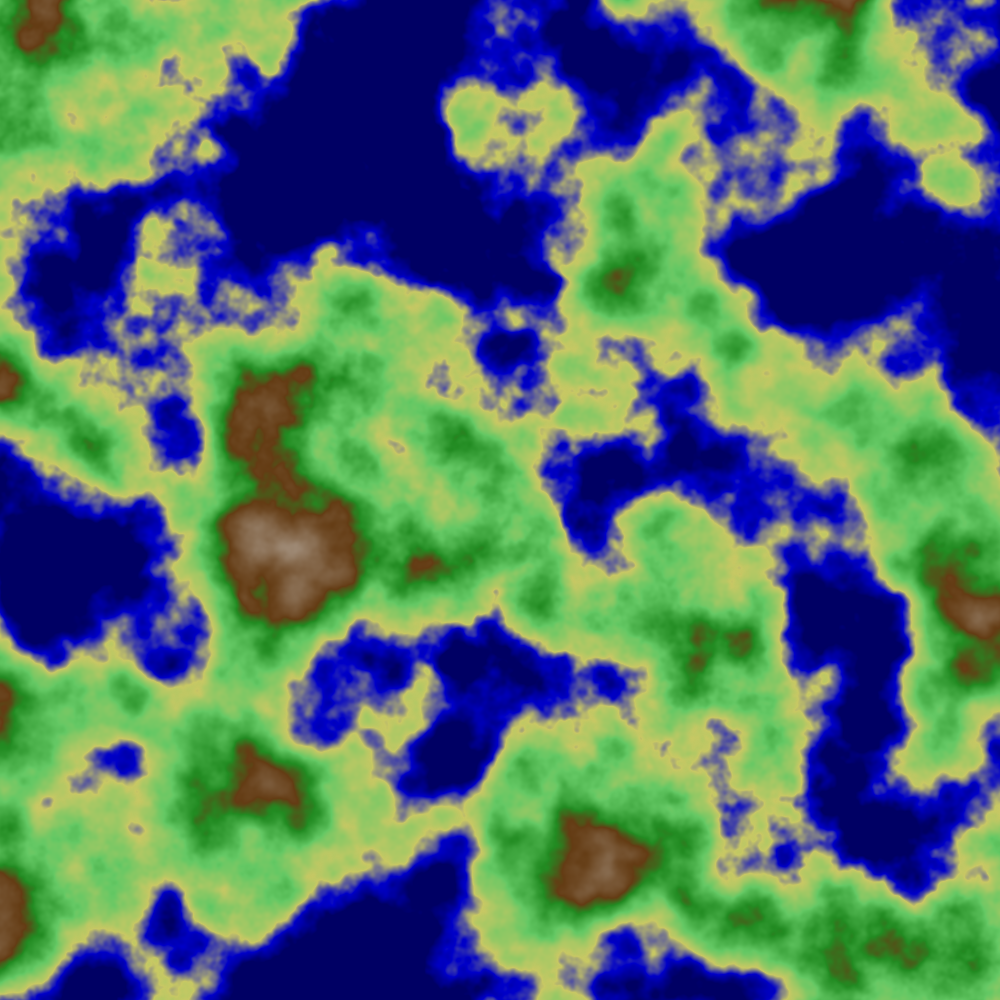
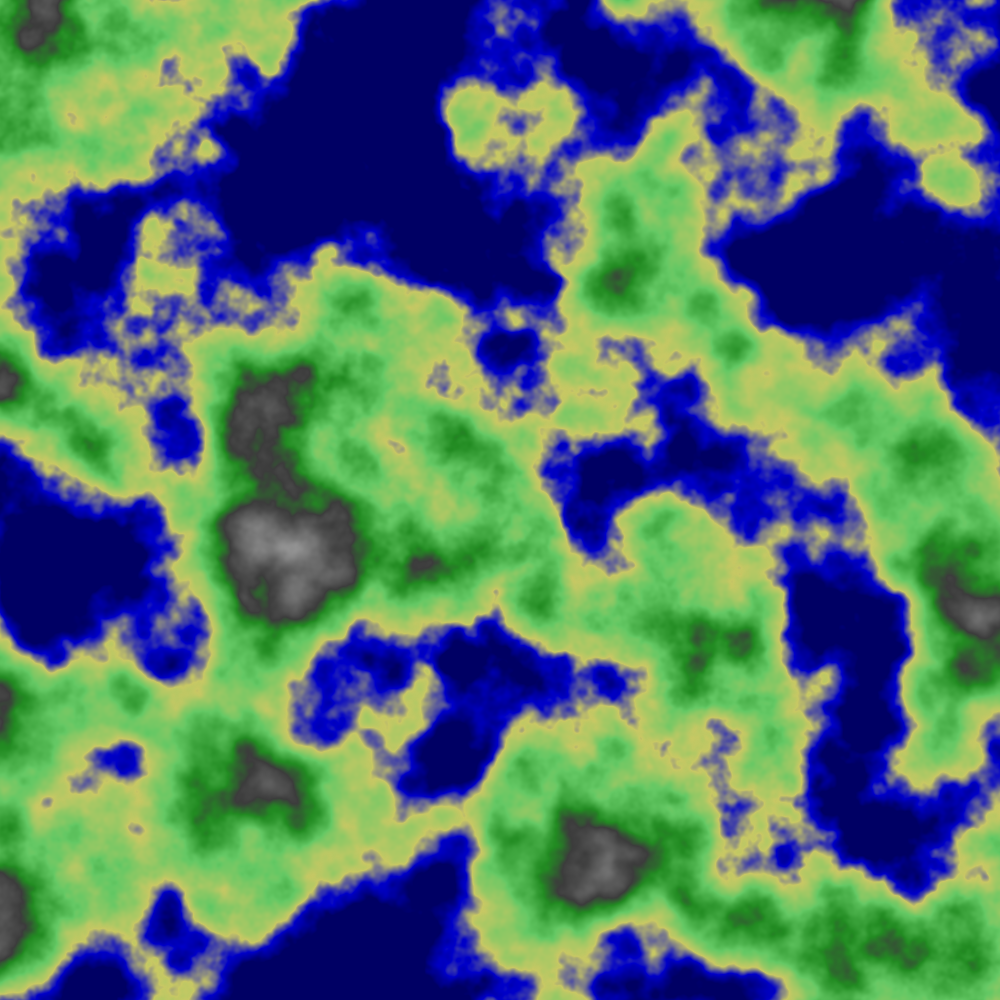
Так лучше

diff --git a/generator.py b/generator.py
@@ -77,12 +77,12 @@ def height_to_color(height_map):
             elif height < mountain_height:
                 factor = (height - forest_height) / (mountain_height - forest_height)
                 color_map[y][x] = interpolate_color(
-                    [34, 139, 34], [100, 60, 20], factor
+                    [34, 139, 34], [60, 60, 60], factor
                 )  # Плавный переход к горам
             else:
                 factor = (height - mountain_height) / (1.0 - mountain_height)
                 color_map[y][x] = interpolate_color(
-                    [100, 60, 20], [220, 220, 220], factor
+                    [60, 60, 60], [240, 240, 240], factor
                 )  # Плавный переход к заснеженным горам
     return color_map
 
